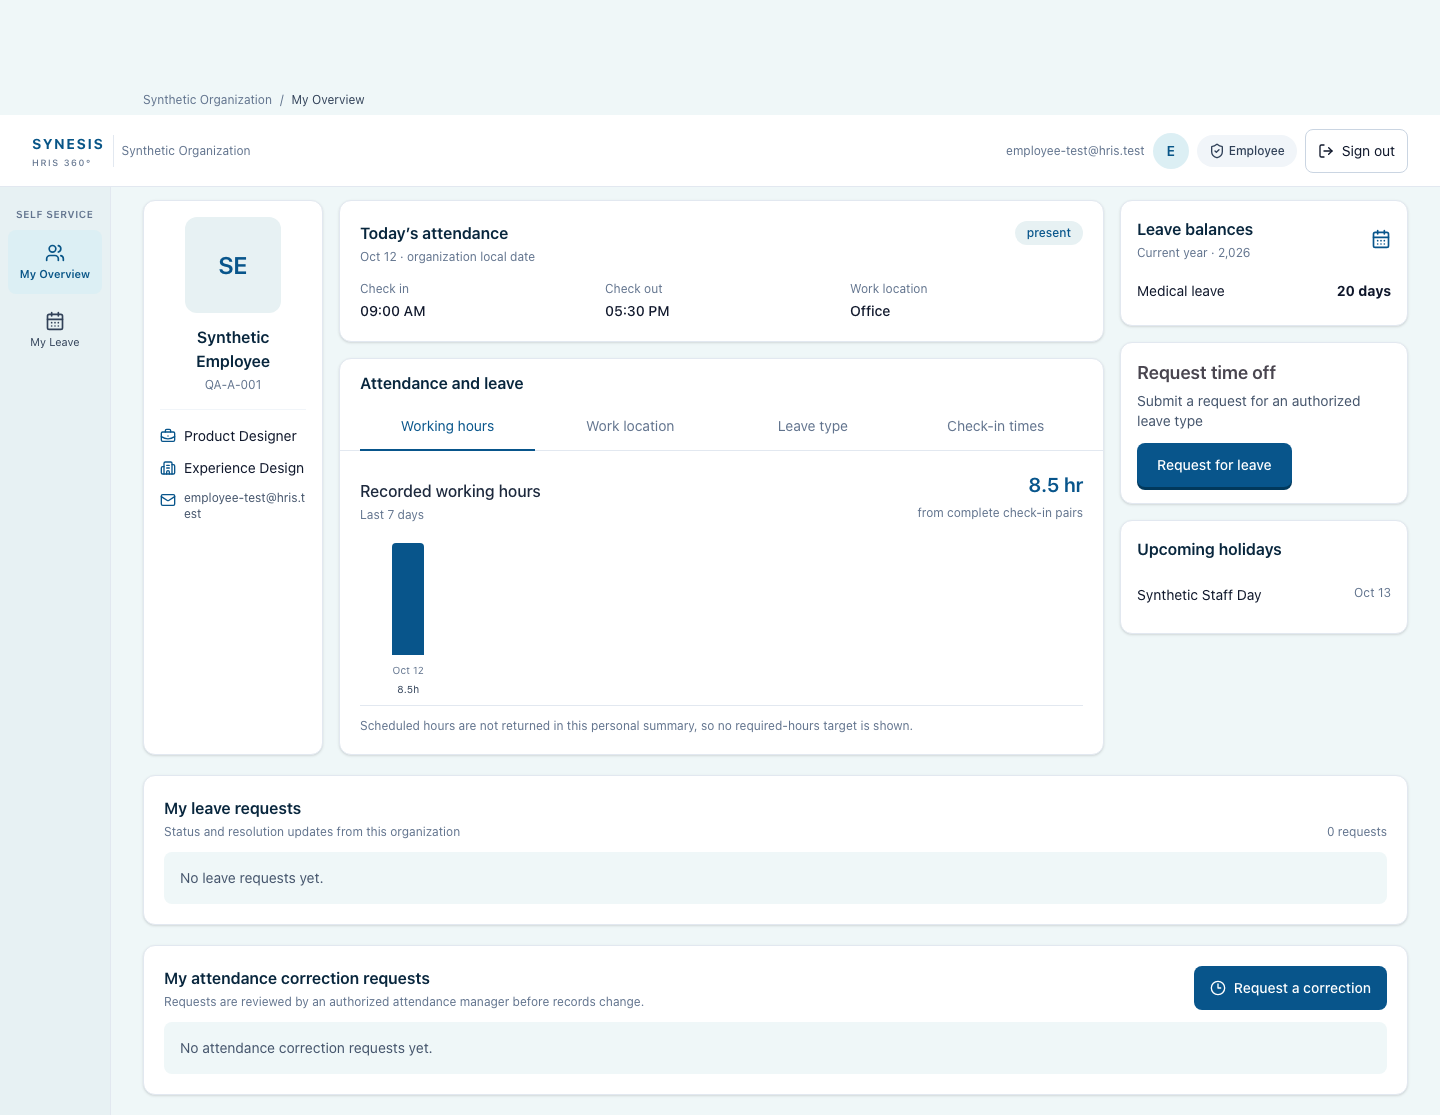
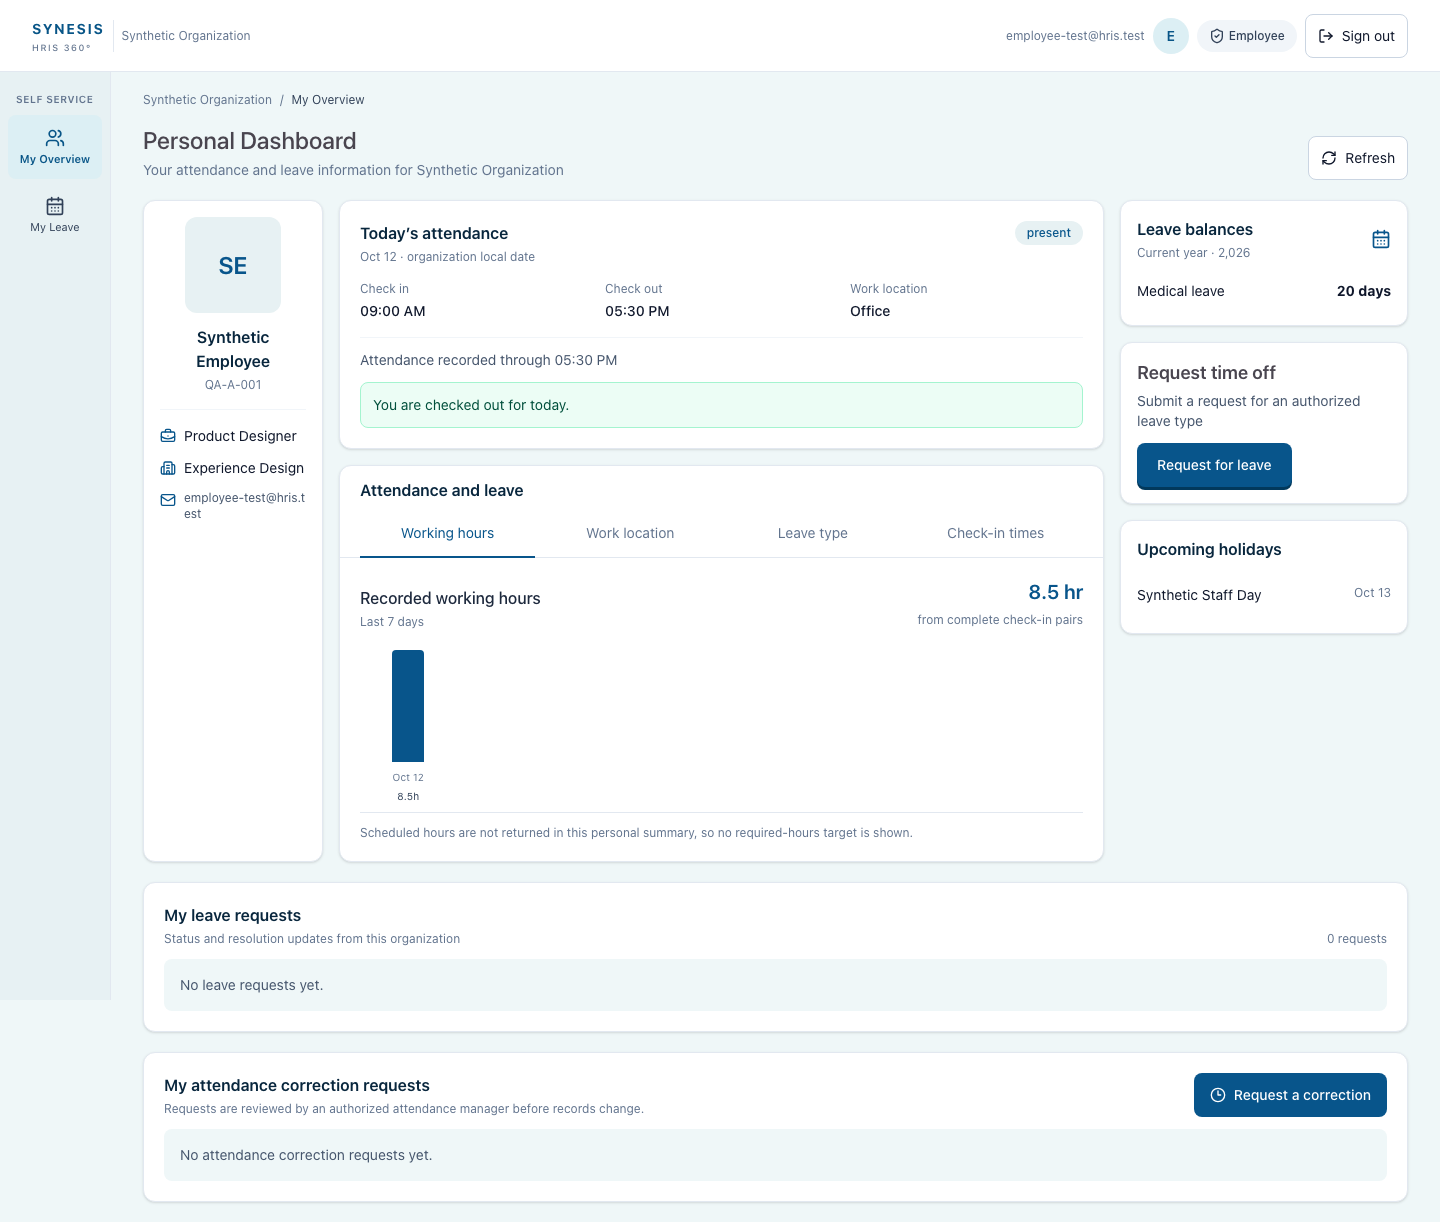
feat: persist employee web attendance events

diff --git a/tests/browser/employee-leave.spec.ts b/tests/browser/employee-leave.spec.ts
@@ -28,6 +28,8 @@ test('linked employee can complete the private evidence leave request on mobile'
   let submitted = false;
   let correctionSubmitted = false;
   let correctionPayload: Record<string, unknown> | null = null;
+  let attendanceState: 'not-started' | 'checked-in' | 'checked-out' = 'not-started';
+  const attendanceEventPayloads: Record<string, unknown>[] = [];
   const externalRequests: string[] = [];
 
   // Any request outside the local app must be handled by one of the explicit
@@ -83,10 +85,11 @@ test('linked employee can complete the private evidence leave request on mobile'
           official_email: user.email, designation_title: 'Product Designer', department_name: 'Experience Design',
         },
         dashboard_date: '2026-10-12',
-        attendance: { records: [{
+        attendance: { records: attendanceState === 'not-started' ? [] : [{
           id: 'f6666666-6666-4666-8666-666666666666', attendance_date: '2026-10-12',
-          status: 'present', check_in: '2026-10-12T03:00:00.000Z', check_out: '2026-10-12T11:30:00.000Z',
-          work_mode: 'office', work_hours: 8.5,
+          status: 'present', check_in: '2026-10-12T03:00:00.000Z',
+          check_out: attendanceState === 'checked-out' ? '2026-10-12T11:30:00.000Z' : null,
+          work_mode: 'office', work_hours: attendanceState === 'checked-out' ? 8.5 : null,
         }], corrections: correctionSubmitted ? [{
           id: 'f8888888-8888-4888-8888-888888888888', attendance_date: '2026-10-12',
           requested_check_in: '2026-10-12T03:15:00.000Z', reason: 'Synthetic missed punch correction',
@@ -107,6 +110,16 @@ test('linked employee can complete the private evidence leave request on mobile'
       correctionPayload = request.postDataJSON() as Record<string, unknown>;
       correctionSubmitted = true;
       await route.fulfill({ status: 200, contentType: 'application/json', body: JSON.stringify('f8888888-8888-4888-8888-888888888888') });
+    } else if (endpoint === 'hris_employee_record_attendance_event') {
+      const payload = request.postDataJSON() as Record<string, unknown>;
+      attendanceEventPayloads.push(payload);
+      attendanceState = payload.p_event === 'check_in' ? 'checked-in' : 'checked-out';
+      await route.fulfill({ status: 200, contentType: 'application/json', body: JSON.stringify({
+        id: 'f6666666-6666-4666-8666-666666666666', tenant_id: tenantId,
+        attendance_date: '2026-10-12', check_in: '2026-10-12T03:00:00.000Z',
+        check_out: attendanceState === 'checked-out' ? '2026-10-12T11:30:00.000Z' : null,
+        work_mode: 'office', status: 'present',
+      }) });
     } else if (endpoint === 'tenant_memberships') {
       await route.fulfill({ status: 200, contentType: 'application/json', body: JSON.stringify([
         { tenant_id: tenantId, role: 'synthetic_employee', status: 'active' },
@@ -142,6 +155,17 @@ test('linked employee can complete the private evidence leave request on mobile'
   await expect(page.getByRole('heading', { name: 'Synthetic Employee' })).toBeVisible();
   await expect(page.getByText('Product Designer')).toBeVisible();
   await expect(page.getByRole('heading', { name: 'Today’s attendance' })).toBeVisible();
+  await expect(page.getByText('You have not checked in today.')).toBeVisible();
+  await page.getByRole('button', { name: 'Check in', exact: true }).click();
+  await expect(page.getByText('You are checked in for today.', { exact: true })).toBeVisible();
+  await expect(page.getByRole('button', { name: 'Check out', exact: true })).toBeVisible();
+  await page.getByRole('button', { name: 'Check out', exact: true }).click();
+  await expect(page.getByText('You are checked out for today.', { exact: true })).toBeVisible();
+  await expect(page.getByRole('button', { name: 'Check in', exact: true })).toHaveCount(0);
+  expect(attendanceEventPayloads).toEqual([
+    { p_tenant_id: tenantId, p_event: 'check_in' },
+    { p_tenant_id: tenantId, p_event: 'check_out' },
+  ]);
   await expect(page.getByText('8.5 hr')).toBeVisible();
   const dashboardTabs = page.getByRole('group', { name: 'Personal dashboard views' });
   await expect(dashboardTabs.getByRole('button', { name: 'Working hours' })).toBeVisible();
@@ -160,8 +184,10 @@ test('linked employee can complete the private evidence leave request on mobile'
   await expect(page.getByRole('heading', { name: 'Request time off' })).toBeVisible();
   await page.getByRole('button', { name: 'Working hours' }).click();
   await page.setViewportSize({ width: 1440, height: 1000 });
+  await page.evaluate(() => window.scrollTo(0, 0));
   await page.screenshot({ path: path.resolve(process.cwd(), 'docs/evidence/employee-dashboard-desktop-20261012.png'), fullPage: true });
   await page.setViewportSize({ width: 375, height: 812 });
+  await page.evaluate(() => window.scrollTo(0, 0));
   const documentWidth = await page.evaluate(() => document.documentElement.scrollWidth);
   expect(documentWidth).toBeLessThanOrEqual(376);
   await page.screenshot({ path: path.resolve(process.cwd(), 'docs/evidence/employee-dashboard-mobile-20261012.png'), fullPage: true });
@@ -173,7 +199,7 @@ test('linked employee can complete the private evidence leave request on mobile'
   await page.getByLabel('Requested check-in').fill('09:15');
   await correctionDialog.getByLabel(/Reason/).fill('Synthetic missed punch correction');
   await correctionDialog.getByRole('button', { name: 'Send request', exact: true }).click();
-  await expect(page.getByRole('status')).toContainText('Attendance correction submitted for review.');
+  await expect(page.getByText('Attendance correction submitted for review.', { exact: true })).toBeVisible();
   await expect(page.getByRole('row', { name: /Synthetic missed punch correction/ })).toBeVisible();
   expect(correctionPayload).toEqual({
     p_tenant_id: tenantId,

diff --git a/src/live/LiveHrisWorkspace.tsx b/src/live/LiveHrisWorkspace.tsx
@@ -1330,6 +1330,9 @@ function EmployeeOverview({ tenantId, tenantName, userId }: { tenantId: string; 
   const [loadedTenantId, setLoadedTenantId] = useState('');
   const [loading, setLoading] = useState(true);
   const [error, setError] = useState('');
+  const [attendanceAction, setAttendanceAction] = useState<'check_in' | 'check_out' | null>(null);
+  const [attendanceActionError, setAttendanceActionError] = useState('');
+  const [attendanceActionSuccess, setAttendanceActionSuccess] = useState('');
   const [activePanel, setActivePanel] = useState<EmployeePanelId>('working-hours');
   const requestSequence = useRef(0);
 
@@ -1355,6 +1358,26 @@ function EmployeeOverview({ tenantId, tenantName, userId }: { tenantId: string; 
       setError(cause instanceof Error ? cause.message : 'Unable to load your HRIS summary.');
     } finally {
       if (requestId === requestSequence.current) setLoading(false);
+    }
+  }
+
+  async function recordAttendanceEvent(event: 'check_in' | 'check_out') {
+    if (attendanceAction) return;
+    setAttendanceAction(event);
+    setAttendanceActionError('');
+    setAttendanceActionSuccess('');
+    try {
+      const { error: rpcError } = await supabase.rpc('hris_employee_record_attendance_event', {
+        p_tenant_id: tenantId,
+        p_event: event,
+      });
+      if (rpcError) throw rpcError;
+      setAttendanceActionSuccess(event === 'check_in' ? 'You are checked in for today.' : 'You are checked out for today.');
+      await load(false);
+    } catch (cause) {
+      setAttendanceActionError(cause instanceof Error ? cause.message : 'Unable to update your attendance. Please retry.');
+    } finally {
+      setAttendanceAction(null);
     }
   }
 
@@ -1426,6 +1449,19 @@ function EmployeeOverview({ tenantId, tenantName, userId }: { tenantId: string; 
               <div><p className="text-xs text-slate-500">Check out</p><p className="mt-1 text-sm font-medium">{displayTime(todayRecord.check_out)}</p></div>
               <div><p className="text-xs text-slate-500">Work location</p><p className="mt-1 text-sm font-medium">{displayWorkMode(todayRecord.work_mode)}</p></div>
             </div> : <p className="mt-3 text-sm text-slate-600">No attendance record is available for this date. Your work schedule is not included in this summary.</p>}
+            <div className="mt-4 flex flex-wrap items-center justify-between gap-3 border-t border-slate-100 pt-3">
+              <p className="text-sm text-slate-600">{todayRecord?.check_out
+                ? `Attendance recorded through ${displayTime(todayRecord.check_out)}`
+                : todayRecord?.check_in ? `Checked in at ${displayTime(todayRecord.check_in)}` : 'You have not checked in today.'}</p>
+              {!todayRecord?.check_out && <button type="button" disabled={loading || attendanceAction !== null}
+                onClick={() => void recordAttendanceEvent(todayRecord?.check_in ? 'check_out' : 'check_in')}
+                className="min-h-11 rounded-lg bg-[#08558B] px-5 text-sm font-medium text-white shadow-[0_3px_0_#02395c] disabled:cursor-wait disabled:opacity-60">
+                {attendanceAction ? (attendanceAction === 'check_in' ? 'Checking in…' : 'Checking out…')
+                  : todayRecord?.check_in ? 'Check out' : 'Check in'}
+              </button>}
+            </div>
+            {attendanceActionError && <p role="alert" className="mt-3 rounded-lg border border-rose-200 bg-rose-50 p-3 text-sm text-rose-900">{attendanceActionError}</p>}
+            {attendanceActionSuccess && <p role="status" className="mt-3 rounded-lg border border-emerald-200 bg-emerald-50 p-3 text-sm text-emerald-900">{attendanceActionSuccess}</p>}
           </section>
 
           <section aria-labelledby="employee-insights-heading" className="min-w-0 overflow-hidden rounded-xl border border-slate-200 bg-white shadow-sm">

diff --git a/tests/browser/shift-roster.spec.ts b/tests/browser/shift-roster.spec.ts
@@ -149,7 +149,7 @@ test('tenant shift roster uses the scoped RPC, filters, exports, and remains usa
   await page.getByLabel('Shift', { exact: true }).selectOption('a6666666-6666-4666-8666-666666666666');
   await page.getByLabel('Assignment date').fill(assignmentDate);
   await page.getByRole('button', { name: 'Assign shift', exact: true }).click();
-  await expect(page.getByRole('status')).toContainText('Shift assigned to New Roster Employee.');
+  await expect(page.getByText('Shift assigned to New Roster Employee.', { exact: true })).toBeVisible();
   await expect(rosterTable.getByRole('row', { name: /New Roster Employee/ })).toContainText('Late Shift');
   expect(assignmentCalls.at(-1)).toMatchObject({ p_tenant_id: tenantId,
     p_employee_id: 'a7777777-7777-4777-8777-777777777777',
